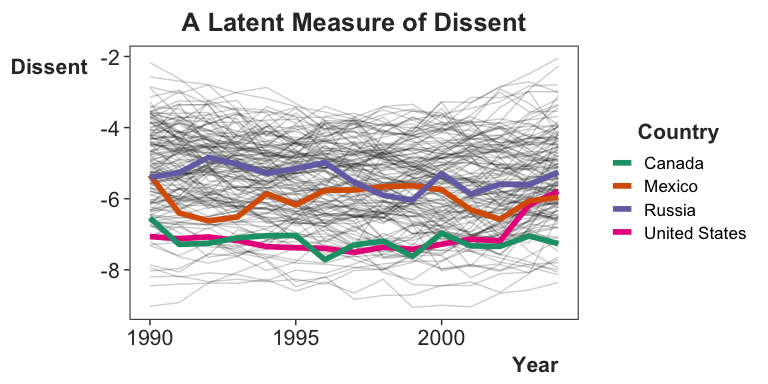
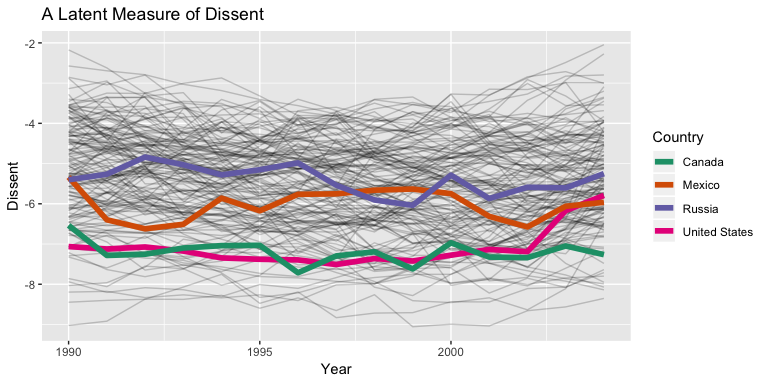
Add comparisons

diff --git a/README.md b/README.md
@@ -43,17 +43,40 @@ dissent_df <- read_csv("https://raw.githubusercontent.com/carlislerainey/latent-
 # plot eta
 p <- ggplot(dissent_df, aes(x = year, y = eta, group = ccode)) + 
   geom_line(alpha = 0.2) + 
-  theme_carly_presents()
-p + geom_line(data = filter(dissent_df, country_name %in% c("United States", "Canada", "Mexico", "Russia")),
+  geom_line(data = filter(dissent_df, country_name %in% c("United States", "Canada", "Mexico", "Russia")),
               aes(x = year, y = eta, color = country_name), alpha = 1, size = 2) + 
   scale_color_brewer(type = "qual", palette = 2) + 
   labs(title = "A Latent Measure of Dissent",
        x = "Year",
        y = "Dissent",
        color = "Country")
+
+# default theme
+p
 ```
 
 ![](figs/latent-dissent-1.png)<!-- -->
+
+``` r
+# bw theme
+p + theme_bw()
+```
+
+![](figs/latent-dissent-2.png)<!-- -->
+
+``` r
+# minimal theme
+p + theme_minimal()
+```
+
+![](figs/latent-dissent-3.png)<!-- -->
+
+``` r
+# carly_presents
+p + theme_carly_presents()
+```
+
+![](figs/latent-dissent-4.png)<!-- -->
 
 ## Scatterplot
 
